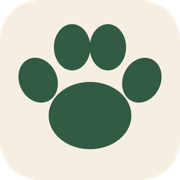
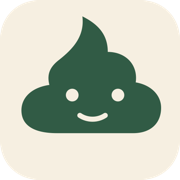
feat: update PWA branding

Changed region(s): [[0.0833, 0.0833, 0.9167, 0.8333], [0.4167, 0.6111, 0.6111, 0.6944]]

diff --git a/web/pages_templ.go b/web/pages_templ.go
@@ -38,14 +38,14 @@ func layout(title string, activePath string) templ.Component {
 			templ_7745c5c3_Var1 = templ.NopComponent
 		}
 		ctx = templ.ClearChildren(ctx)
-		templ_7745c5c3_Err = templruntime.WriteString(templ_7745c5c3_Buffer, 1, "<!doctype html><html lang=\"en\"><head><meta charset=\"utf-8\"><meta name=\"viewport\" content=\"width=device-width, initial-scale=1\"><meta name=\"theme-color\" content=\"#f6efe1\"><meta name=\"apple-mobile-web-app-capable\" content=\"yes\"><meta name=\"apple-mobile-web-app-status-bar-style\" content=\"default\"><meta name=\"apple-mobile-web-app-title\" content=\"Momo\"><title>")
+		templ_7745c5c3_Err = templruntime.WriteString(templ_7745c5c3_Buffer, 1, "<!doctype html><html lang=\"en\"><head><meta charset=\"utf-8\"><meta name=\"viewport\" content=\"width=device-width, initial-scale=1\"><meta name=\"theme-color\" content=\"#f6efe1\"><meta name=\"application-name\" content=\"Momo Poo\"><meta name=\"apple-mobile-web-app-capable\" content=\"yes\"><meta name=\"apple-mobile-web-app-status-bar-style\" content=\"default\"><meta name=\"apple-mobile-web-app-title\" content=\"Momo Poo\"><title>")
 		if templ_7745c5c3_Err != nil {
 			return templ_7745c5c3_Err
 		}
 		var templ_7745c5c3_Var2 string
 		templ_7745c5c3_Var2, templ_7745c5c3_Err = templ.JoinStringErrs(title)
 		if templ_7745c5c3_Err != nil {
-			return templ.Error{Err: templ_7745c5c3_Err, FileName: `web/pages.templ`, Line: 22, Col: 17}
+			return templ.Error{Err: templ_7745c5c3_Err, FileName: `web/pages.templ`, Line: 23, Col: 17}
 		}
 		_, templ_7745c5c3_Err = templ_7745c5c3_Buffer.WriteString(templ.EscapeString(templ_7745c5c3_Var2))
 		if templ_7745c5c3_Err != nil {
@@ -88,7 +88,7 @@ func layout(title string, activePath string) templ.Component {
 		var templ_7745c5c3_Var5 string
 		templ_7745c5c3_Var5, templ_7745c5c3_Err = templ.ResolveAttributeValue(currentPage(activePath == "/"))
 		if templ_7745c5c3_Err != nil {
-			return templ.Error{Err: templ_7745c5c3_Err, FileName: `web/pages.templ`, Line: 37, Col: 101}
+			return templ.Error{Err: templ_7745c5c3_Err, FileName: `web/pages.templ`, Line: 38, Col: 101}
 		}
 		_, templ_7745c5c3_Err = templ_7745c5c3_Buffer.WriteString(templ_7745c5c3_Var5)
 		if templ_7745c5c3_Err != nil {
@@ -123,7 +123,7 @@ func layout(title string, activePath string) templ.Component {
 		var templ_7745c5c3_Var8 string
 		templ_7745c5c3_Var8, templ_7745c5c3_Err = templ.ResolveAttributeValue(currentPage(activePath == "/history"))
 		if templ_7745c5c3_Err != nil {
-			return templ.Error{Err: templ_7745c5c3_Err, FileName: `web/pages.templ`, Line: 38, Col: 122}
+			return templ.Error{Err: templ_7745c5c3_Err, FileName: `web/pages.templ`, Line: 39, Col: 122}
 		}
 		_, templ_7745c5c3_Err = templ_7745c5c3_Buffer.WriteString(templ_7745c5c3_Var8)
 		if templ_7745c5c3_Err != nil {
@@ -198,7 +198,7 @@ func HomePage(data HomePageData) templ.Component {
 				var templ_7745c5c3_Var11 string
 				templ_7745c5c3_Var11, templ_7745c5c3_Err = templ.JoinStringErrs(data.SuccessMessage)
 				if templ_7745c5c3_Err != nil {
-					return templ.Error{Err: templ_7745c5c3_Err, FileName: `web/pages.templ`, Line: 60, Col: 64}
+					return templ.Error{Err: templ_7745c5c3_Err, FileName: `web/pages.templ`, Line: 61, Col: 64}
 				}
 				_, templ_7745c5c3_Err = templ_7745c5c3_Buffer.WriteString(templ.EscapeString(templ_7745c5c3_Var11))
 				if templ_7745c5c3_Err != nil {
@@ -346,7 +346,7 @@ func HomePage(data HomePageData) templ.Component {
 						var templ_7745c5c3_Var18 string
 						templ_7745c5c3_Var18, templ_7745c5c3_Err = templ.JoinStringErrs(homeDate(data.Now))
 						if templ_7745c5c3_Err != nil {
-							return templ.Error{Err: templ_7745c5c3_Err, FileName: `web/pages.templ`, Line: 92, Col: 91}
+							return templ.Error{Err: templ_7745c5c3_Err, FileName: `web/pages.templ`, Line: 93, Col: 91}
 						}
 						_, templ_7745c5c3_Err = templ_7745c5c3_Buffer.WriteString(templ.EscapeString(templ_7745c5c3_Var18))
 						if templ_7745c5c3_Err != nil {
@@ -387,7 +387,7 @@ func HomePage(data HomePageData) templ.Component {
 					var templ_7745c5c3_Var20 string
 					templ_7745c5c3_Var20, templ_7745c5c3_Err = templ.JoinStringErrs(strconv.Itoa(data.TodayTrips))
 					if templ_7745c5c3_Err != nil {
-						return templ.Error{Err: templ_7745c5c3_Err, FileName: `web/pages.templ`, Line: 95, Col: 71}
+						return templ.Error{Err: templ_7745c5c3_Err, FileName: `web/pages.templ`, Line: 96, Col: 71}
 					}
 					_, templ_7745c5c3_Err = templ_7745c5c3_Buffer.WriteString(templ.EscapeString(templ_7745c5c3_Var20))
 					if templ_7745c5c3_Err != nil {
@@ -400,7 +400,7 @@ func HomePage(data HomePageData) templ.Component {
 					var templ_7745c5c3_Var21 string
 					templ_7745c5c3_Var21, templ_7745c5c3_Err = templ.JoinStringErrs(strconv.Itoa(data.TodayPoos))
 					if templ_7745c5c3_Err != nil {
-						return templ.Error{Err: templ_7745c5c3_Err, FileName: `web/pages.templ`, Line: 97, Col: 82}
+						return templ.Error{Err: templ_7745c5c3_Err, FileName: `web/pages.templ`, Line: 98, Col: 82}
 					}
 					_, templ_7745c5c3_Err = templ_7745c5c3_Buffer.WriteString(templ.EscapeString(templ_7745c5c3_Var21))
 					if templ_7745c5c3_Err != nil {
@@ -413,7 +413,7 @@ func HomePage(data HomePageData) templ.Component {
 					var templ_7745c5c3_Var22 string
 					templ_7745c5c3_Var22, templ_7745c5c3_Err = templ.JoinStringErrs(strconv.Itoa(data.TodayNoPoos()))
 					if templ_7745c5c3_Err != nil {
-						return templ.Error{Err: templ_7745c5c3_Err, FileName: `web/pages.templ`, Line: 98, Col: 86}
+						return templ.Error{Err: templ_7745c5c3_Err, FileName: `web/pages.templ`, Line: 99, Col: 86}
 					}
 					_, templ_7745c5c3_Err = templ_7745c5c3_Buffer.WriteString(templ.EscapeString(templ_7745c5c3_Var22))
 					if templ_7745c5c3_Err != nil {
@@ -603,7 +603,7 @@ func HistoryPage(data HistoryPageData) templ.Component {
 			var templ_7745c5c3_Var30 string
 			templ_7745c5c3_Var30, templ_7745c5c3_Err = templ.ResolveAttributeValue(strconv.Itoa(data.Days))
 			if templ_7745c5c3_Err != nil {
-				return templ.Error{Err: templ_7745c5c3_Err, FileName: `web/pages.templ`, Line: 128, Col: 96}
+				return templ.Error{Err: templ_7745c5c3_Err, FileName: `web/pages.templ`, Line: 129, Col: 96}
 			}
 			_, templ_7745c5c3_Err = templ_7745c5c3_Buffer.WriteString(templ_7745c5c3_Var30)
 			if templ_7745c5c3_Err != nil {
@@ -704,7 +704,7 @@ func HistoryPage(data HistoryPageData) templ.Component {
 						var templ_7745c5c3_Var36 string
 						templ_7745c5c3_Var36, templ_7745c5c3_Err = templ.JoinStringErrs(historyRangeLabel(data.Days))
 						if templ_7745c5c3_Err != nil {
-							return templ.Error{Err: templ_7745c5c3_Err, FileName: `web/pages.templ`, Line: 136, Col: 101}
+							return templ.Error{Err: templ_7745c5c3_Err, FileName: `web/pages.templ`, Line: 137, Col: 101}
 						}
 						_, templ_7745c5c3_Err = templ_7745c5c3_Buffer.WriteString(templ.EscapeString(templ_7745c5c3_Var36))
 						if templ_7745c5c3_Err != nil {
@@ -760,7 +760,7 @@ func HistoryPage(data HistoryPageData) templ.Component {
 							var templ_7745c5c3_Var38 string
 							templ_7745c5c3_Var38, templ_7745c5c3_Err = templ.ResolveAttributeValue(day.Date.Format("2006-01-02"))
 							if templ_7745c5c3_Err != nil {
-								return templ.Error{Err: templ_7745c5c3_Err, FileName: `web/pages.templ`, Line: 147, Col: 54}
+								return templ.Error{Err: templ_7745c5c3_Err, FileName: `web/pages.templ`, Line: 148, Col: 54}
 							}
 							_, templ_7745c5c3_Err = templ_7745c5c3_Buffer.WriteString(templ_7745c5c3_Var38)
 							if templ_7745c5c3_Err != nil {
@@ -773,7 +773,7 @@ func HistoryPage(data HistoryPageData) templ.Component {
 							var templ_7745c5c3_Var39 string
 							templ_7745c5c3_Var39, templ_7745c5c3_Err = templ.JoinStringErrs(day.Date.Format("Mon"))
 							if templ_7745c5c3_Err != nil {
-								return templ.Error{Err: templ_7745c5c3_Err, FileName: `web/pages.templ`, Line: 147, Col: 89}
+								return templ.Error{Err: templ_7745c5c3_Err, FileName: `web/pages.templ`, Line: 148, Col: 89}
 							}
 							_, templ_7745c5c3_Err = templ_7745c5c3_Buffer.WriteString(templ.EscapeString(templ_7745c5c3_Var39))
 							if templ_7745c5c3_Err != nil {
@@ -786,7 +786,7 @@ func HistoryPage(data HistoryPageData) templ.Component {
 							var templ_7745c5c3_Var40 string
 							templ_7745c5c3_Var40, templ_7745c5c3_Err = templ.JoinStringErrs(day.Date.Format("Jan 2"))
 							if templ_7745c5c3_Err != nil {
-								return templ.Error{Err: templ_7745c5c3_Err, FileName: `web/pages.templ`, Line: 147, Col: 132}
+								return templ.Error{Err: templ_7745c5c3_Err, FileName: `web/pages.templ`, Line: 148, Col: 132}
 							}
 							_, templ_7745c5c3_Err = templ_7745c5c3_Buffer.WriteString(templ.EscapeString(templ_7745c5c3_Var40))
 							if templ_7745c5c3_Err != nil {
@@ -799,7 +799,7 @@ func HistoryPage(data HistoryPageData) templ.Component {
 							var templ_7745c5c3_Var41 string
 							templ_7745c5c3_Var41, templ_7745c5c3_Err = templ.ResolveAttributeValue(dayAriaLabel(day))
 							if templ_7745c5c3_Err != nil {
-								return templ.Error{Err: templ_7745c5c3_Err, FileName: `web/pages.templ`, Line: 148, Col: 56}
+								return templ.Error{Err: templ_7745c5c3_Err, FileName: `web/pages.templ`, Line: 149, Col: 56}
 							}
 							_, templ_7745c5c3_Err = templ_7745c5c3_Buffer.WriteString(templ_7745c5c3_Var41)
 							if templ_7745c5c3_Err != nil {
@@ -812,7 +812,7 @@ func HistoryPage(data HistoryPageData) templ.Component {
 							var templ_7745c5c3_Var42 string
 							templ_7745c5c3_Var42, templ_7745c5c3_Err = templ.ResolveAttributeValue(chartWidth(day.Poos, data.ChartMax()))
 							if templ_7745c5c3_Err != nil {
-								return templ.Error{Err: templ_7745c5c3_Err, FileName: `web/pages.templ`, Line: 149, Col: 232}
+								return templ.Error{Err: templ_7745c5c3_Err, FileName: `web/pages.templ`, Line: 150, Col: 232}
 							}
 							_, templ_7745c5c3_Err = templ_7745c5c3_Buffer.WriteString(templ_7745c5c3_Var42)
 							if templ_7745c5c3_Err != nil {
@@ -825,7 +825,7 @@ func HistoryPage(data HistoryPageData) templ.Component {
 							var templ_7745c5c3_Var43 string
 							templ_7745c5c3_Var43, templ_7745c5c3_Err = templ.JoinStringErrs(strconv.Itoa(day.Poos))
 							if templ_7745c5c3_Err != nil {
-								return templ.Error{Err: templ_7745c5c3_Err, FileName: `web/pages.templ`, Line: 149, Col: 299}
+								return templ.Error{Err: templ_7745c5c3_Err, FileName: `web/pages.templ`, Line: 150, Col: 299}
 							}
 							_, templ_7745c5c3_Err = templ_7745c5c3_Buffer.WriteString(templ.EscapeString(templ_7745c5c3_Var43))
 							if templ_7745c5c3_Err != nil {
@@ -838,7 +838,7 @@ func HistoryPage(data HistoryPageData) templ.Component {
 							var templ_7745c5c3_Var44 string
 							templ_7745c5c3_Var44, templ_7745c5c3_Err = templ.ResolveAttributeValue(chartWidth(day.NoPoos, data.ChartMax()))
 							if templ_7745c5c3_Err != nil {
-								return templ.Error{Err: templ_7745c5c3_Err, FileName: `web/pages.templ`, Line: 150, Col: 234}
+								return templ.Error{Err: templ_7745c5c3_Err, FileName: `web/pages.templ`, Line: 151, Col: 234}
 							}
 							_, templ_7745c5c3_Err = templ_7745c5c3_Buffer.WriteString(templ_7745c5c3_Var44)
 							if templ_7745c5c3_Err != nil {
@@ -851,7 +851,7 @@ func HistoryPage(data HistoryPageData) templ.Component {
 							var templ_7745c5c3_Var45 string
 							templ_7745c5c3_Var45, templ_7745c5c3_Err = templ.JoinStringErrs(strconv.Itoa(day.NoPoos))
 							if templ_7745c5c3_Err != nil {
-								return templ.Error{Err: templ_7745c5c3_Err, FileName: `web/pages.templ`, Line: 150, Col: 303}
+								return templ.Error{Err: templ_7745c5c3_Err, FileName: `web/pages.templ`, Line: 151, Col: 303}
 							}
 							_, templ_7745c5c3_Err = templ_7745c5c3_Buffer.WriteString(templ.EscapeString(templ_7745c5c3_Var45))
 							if templ_7745c5c3_Err != nil {
@@ -864,7 +864,7 @@ func HistoryPage(data HistoryPageData) templ.Component {
 							var templ_7745c5c3_Var46 string
 							templ_7745c5c3_Var46, templ_7745c5c3_Err = templ.JoinStringErrs(strconv.Itoa(day.Trips))
 							if templ_7745c5c3_Err != nil {
-								return templ.Error{Err: templ_7745c5c3_Err, FileName: `web/pages.templ`, Line: 152, Col: 64}
+								return templ.Error{Err: templ_7745c5c3_Err, FileName: `web/pages.templ`, Line: 153, Col: 64}
 							}
 							_, templ_7745c5c3_Err = templ_7745c5c3_Buffer.WriteString(templ.EscapeString(templ_7745c5c3_Var46))
 							if templ_7745c5c3_Err != nil {
@@ -1056,7 +1056,7 @@ func ErrorPage(data ErrorPageData) templ.Component {
 			var templ_7745c5c3_Var54 string
 			templ_7745c5c3_Var54, templ_7745c5c3_Err = templ.JoinStringErrs(strconv.Itoa(data.StatusCode))
 			if templ_7745c5c3_Err != nil {
-				return templ.Error{Err: templ_7745c5c3_Err, FileName: `web/pages.templ`, Line: 174, Col: 58}
+				return templ.Error{Err: templ_7745c5c3_Err, FileName: `web/pages.templ`, Line: 175, Col: 58}
 			}
 			_, templ_7745c5c3_Err = templ_7745c5c3_Buffer.WriteString(templ.EscapeString(templ_7745c5c3_Var54))
 			if templ_7745c5c3_Err != nil {
@@ -1069,7 +1069,7 @@ func ErrorPage(data ErrorPageData) templ.Component {
 			var templ_7745c5c3_Var55 string
 			templ_7745c5c3_Var55, templ_7745c5c3_Err = templ.JoinStringErrs(data.Title)
 			if templ_7745c5c3_Err != nil {
-				return templ.Error{Err: templ_7745c5c3_Err, FileName: `web/pages.templ`, Line: 176, Col: 19}
+				return templ.Error{Err: templ_7745c5c3_Err, FileName: `web/pages.templ`, Line: 177, Col: 19}
 			}
 			_, templ_7745c5c3_Err = templ_7745c5c3_Buffer.WriteString(templ.EscapeString(templ_7745c5c3_Var55))
 			if templ_7745c5c3_Err != nil {
@@ -1082,7 +1082,7 @@ func ErrorPage(data ErrorPageData) templ.Component {
 			var templ_7745c5c3_Var56 string
 			templ_7745c5c3_Var56, templ_7745c5c3_Err = templ.JoinStringErrs(data.Message)
 			if templ_7745c5c3_Err != nil {
-				return templ.Error{Err: templ_7745c5c3_Err, FileName: `web/pages.templ`, Line: 177, Col: 20}
+				return templ.Error{Err: templ_7745c5c3_Err, FileName: `web/pages.templ`, Line: 178, Col: 20}
 			}
 			_, templ_7745c5c3_Err = templ_7745c5c3_Buffer.WriteString(templ.EscapeString(templ_7745c5c3_Var56))
 			if templ_7745c5c3_Err != nil {
@@ -1198,7 +1198,7 @@ func tripList(trips []Trip, limit int, deleteDays int) templ.Component {
 					var templ_7745c5c3_Var61 string
 					templ_7745c5c3_Var61, templ_7745c5c3_Err = templ.JoinStringErrs(tripTypeLabel(trip.HasPoo))
 					if templ_7745c5c3_Err != nil {
-						return templ.Error{Err: templ_7745c5c3_Err, FileName: `web/pages.templ`, Line: 192, Col: 47}
+						return templ.Error{Err: templ_7745c5c3_Err, FileName: `web/pages.templ`, Line: 193, Col: 47}
 					}
 					_, templ_7745c5c3_Err = templ_7745c5c3_Buffer.WriteString(templ.EscapeString(templ_7745c5c3_Var61))
 					if templ_7745c5c3_Err != nil {
@@ -1211,7 +1211,7 @@ func tripList(trips []Trip, limit int, deleteDays int) templ.Component {
 					var templ_7745c5c3_Var62 string
 					templ_7745c5c3_Var62, templ_7745c5c3_Err = templ.ResolveAttributeValue(trip.OccurredAt.Format(time.RFC3339))
 					if templ_7745c5c3_Err != nil {
-						return templ.Error{Err: templ_7745c5c3_Err, FileName: `web/pages.templ`, Line: 192, Col: 111}
+						return templ.Error{Err: templ_7745c5c3_Err, FileName: `web/pages.templ`, Line: 193, Col: 111}
 					}
 					_, templ_7745c5c3_Err = templ_7745c5c3_Buffer.WriteString(templ_7745c5c3_Var62)
 					if templ_7745c5c3_Err != nil {
@@ -1224,7 +1224,7 @@ func tripList(trips []Trip, limit int, deleteDays int) templ.Component {
 					var templ_7745c5c3_Var63 string
 					templ_7745c5c3_Var63, templ_7745c5c3_Err = templ.JoinStringErrs(trip.OccurredAt.Format("Mon, Jan 2 at 3:04 PM"))
 					if templ_7745c5c3_Err != nil {
-						return templ.Error{Err: templ_7745c5c3_Err, FileName: `web/pages.templ`, Line: 192, Col: 163}
+						return templ.Error{Err: templ_7745c5c3_Err, FileName: `web/pages.templ`, Line: 193, Col: 163}
 					}
 					_, templ_7745c5c3_Err = templ_7745c5c3_Buffer.WriteString(templ.EscapeString(templ_7745c5c3_Var63))
 					if templ_7745c5c3_Err != nil {
@@ -1242,7 +1242,7 @@ func tripList(trips []Trip, limit int, deleteDays int) templ.Component {
 						var templ_7745c5c3_Var64 templ.SafeURL
 						templ_7745c5c3_Var64, templ_7745c5c3_Err = templ.JoinURLErrs(templ.SafeURL("/trips/" + strconv.FormatInt(trip.ID, 10) + "/delete?days=" + strconv.Itoa(deleteDays)))
 						if templ_7745c5c3_Err != nil {
-							return templ.Error{Err: templ_7745c5c3_Err, FileName: `web/pages.templ`, Line: 196, Col: 139}
+							return templ.Error{Err: templ_7745c5c3_Err, FileName: `web/pages.templ`, Line: 197, Col: 139}
 						}
 						_, templ_7745c5c3_Err = templ_7745c5c3_Buffer.WriteString(templ.EscapeString(templ_7745c5c3_Var64))
 						if templ_7745c5c3_Err != nil {
@@ -1255,7 +1255,7 @@ func tripList(trips []Trip, limit int, deleteDays int) templ.Component {
 						var templ_7745c5c3_Var65 string
 						templ_7745c5c3_Var65, templ_7745c5c3_Err = templ.ResolveAttributeValue("Confirm deletion of " + tripTypeLabel(trip.HasPoo) + " trip from " + trip.OccurredAt.Format("Monday, January 2 at 3:04 PM"))
 						if templ_7745c5c3_Err != nil {
-							return templ.Error{Err: templ_7745c5c3_Err, FileName: `web/pages.templ`, Line: 197, Col: 168}
+							return templ.Error{Err: templ_7745c5c3_Err, FileName: `web/pages.templ`, Line: 198, Col: 168}
 						}
 						_, templ_7745c5c3_Err = templ_7745c5c3_Buffer.WriteString(templ_7745c5c3_Var65)
 						if templ_7745c5c3_Err != nil {
@@ -1322,7 +1322,7 @@ func emptyState(title string, message string) templ.Component {
 		var templ_7745c5c3_Var67 string
 		templ_7745c5c3_Var67, templ_7745c5c3_Err = templ.JoinStringErrs(title)
 		if templ_7745c5c3_Err != nil {
-			return templ.Error{Err: templ_7745c5c3_Err, FileName: `web/pages.templ`, Line: 211, Col: 83}
+			return templ.Error{Err: templ_7745c5c3_Err, FileName: `web/pages.templ`, Line: 212, Col: 83}
 		}
 		_, templ_7745c5c3_Err = templ_7745c5c3_Buffer.WriteString(templ.EscapeString(templ_7745c5c3_Var67))
 		if templ_7745c5c3_Err != nil {
@@ -1335,7 +1335,7 @@ func emptyState(title string, message string) templ.Component {
 		var templ_7745c5c3_Var68 string
 		templ_7745c5c3_Var68, templ_7745c5c3_Err = templ.JoinStringErrs(message)
 		if templ_7745c5c3_Err != nil {
-			return templ.Error{Err: templ_7745c5c3_Err, FileName: `web/pages.templ`, Line: 211, Col: 106}
+			return templ.Error{Err: templ_7745c5c3_Err, FileName: `web/pages.templ`, Line: 212, Col: 106}
 		}
 		_, templ_7745c5c3_Err = templ_7745c5c3_Buffer.WriteString(templ.EscapeString(templ_7745c5c3_Var68))
 		if templ_7745c5c3_Err != nil {
